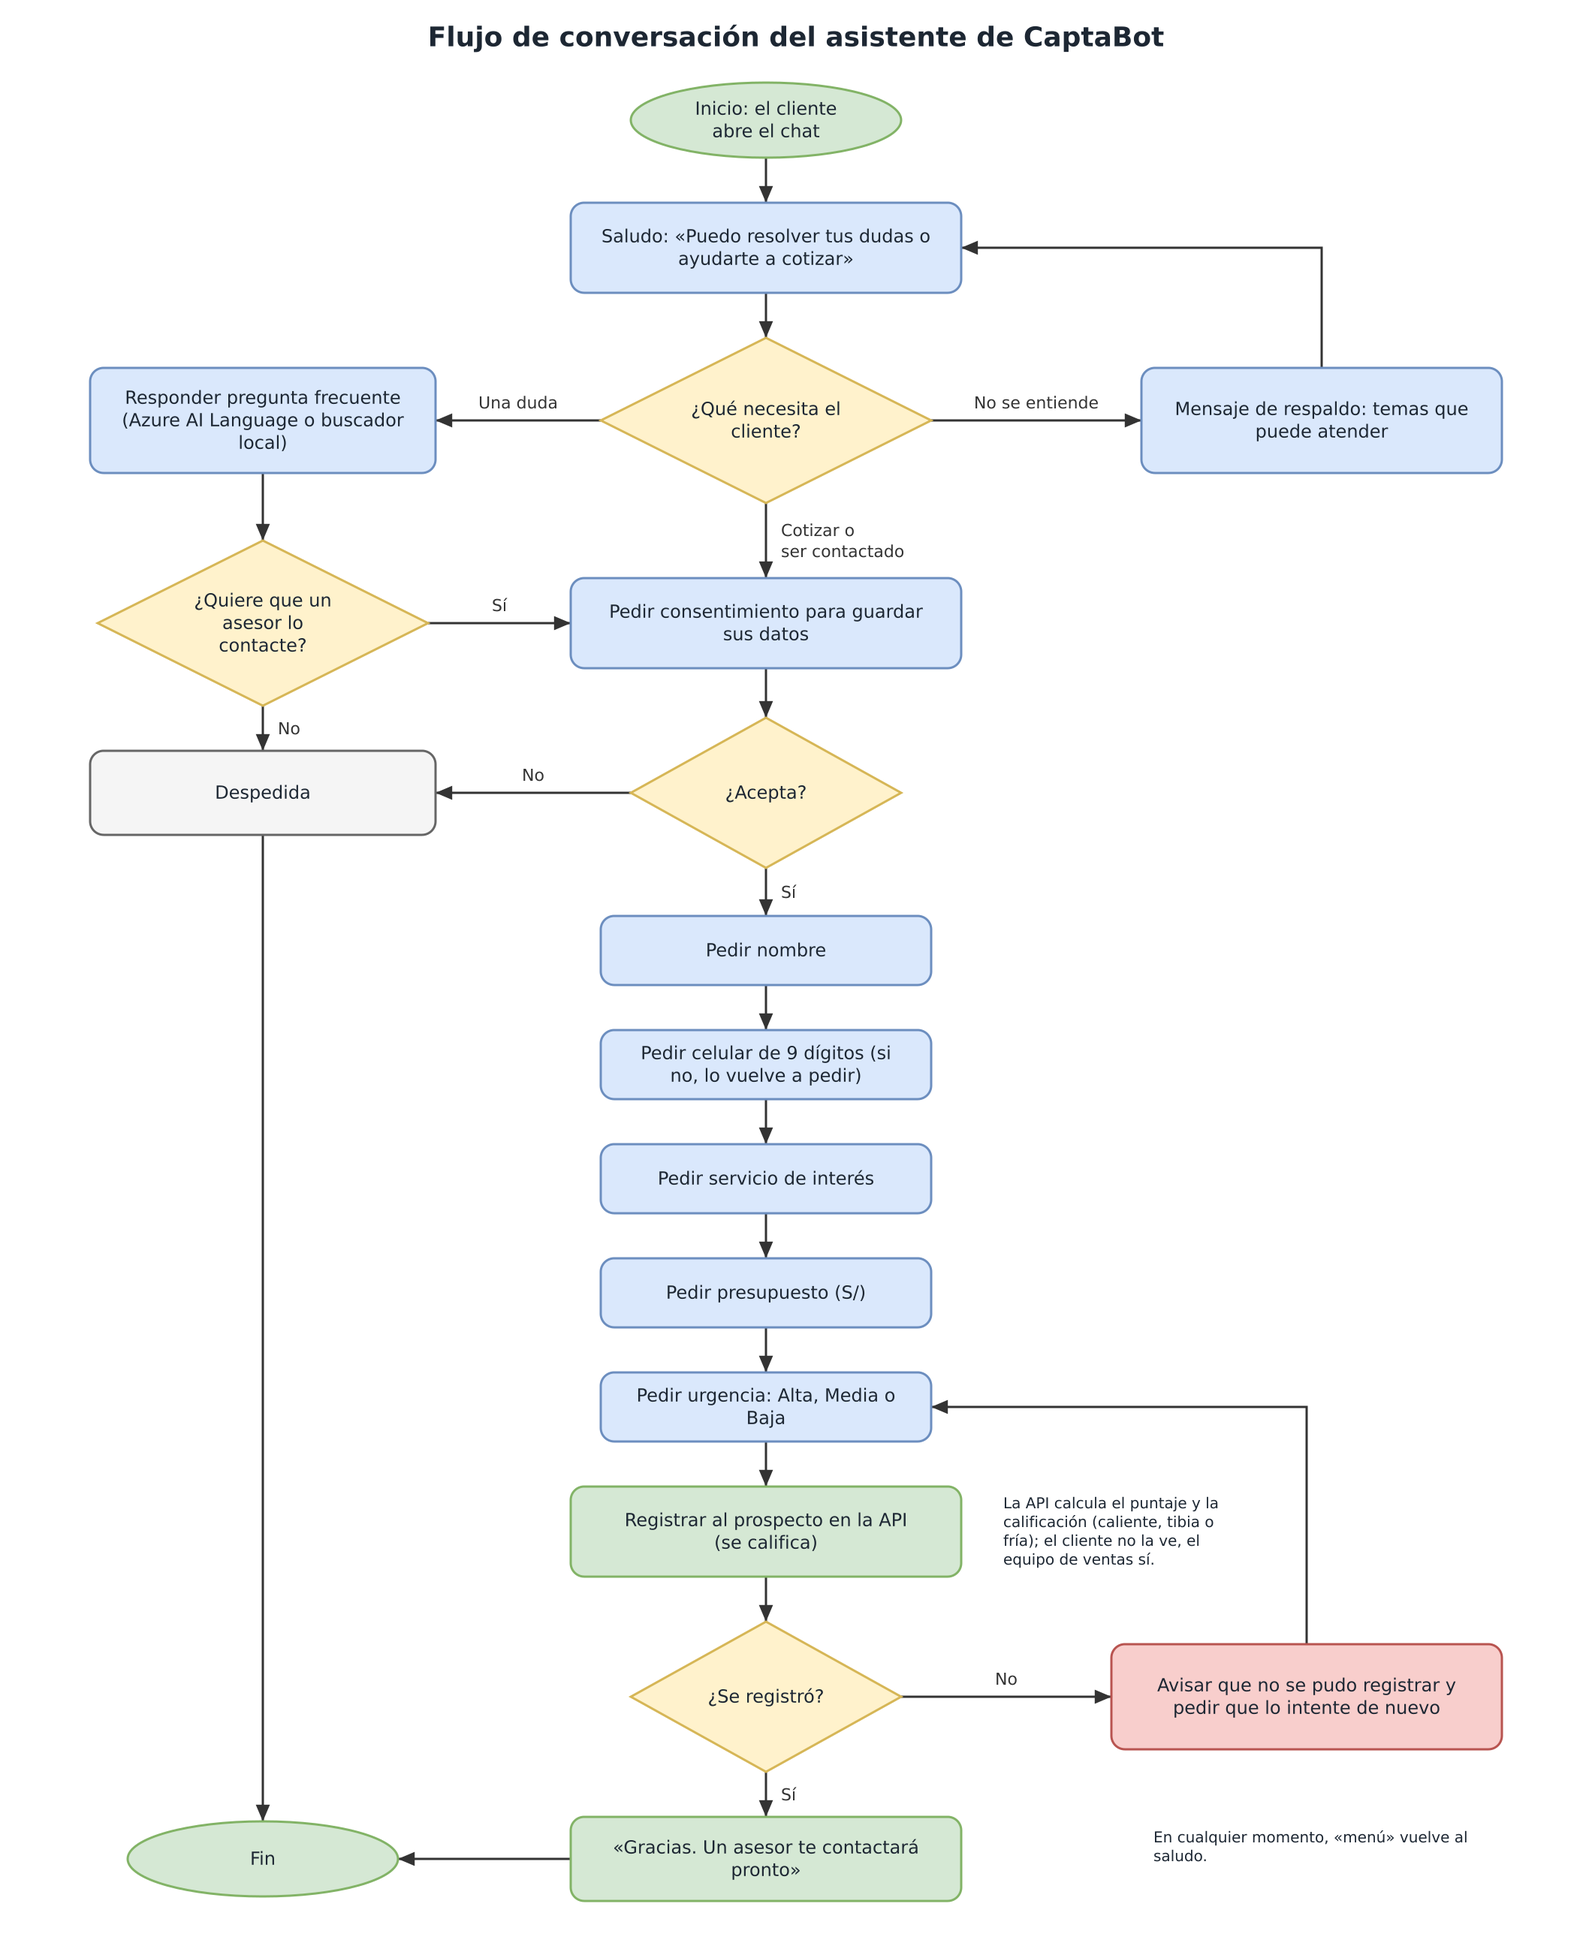
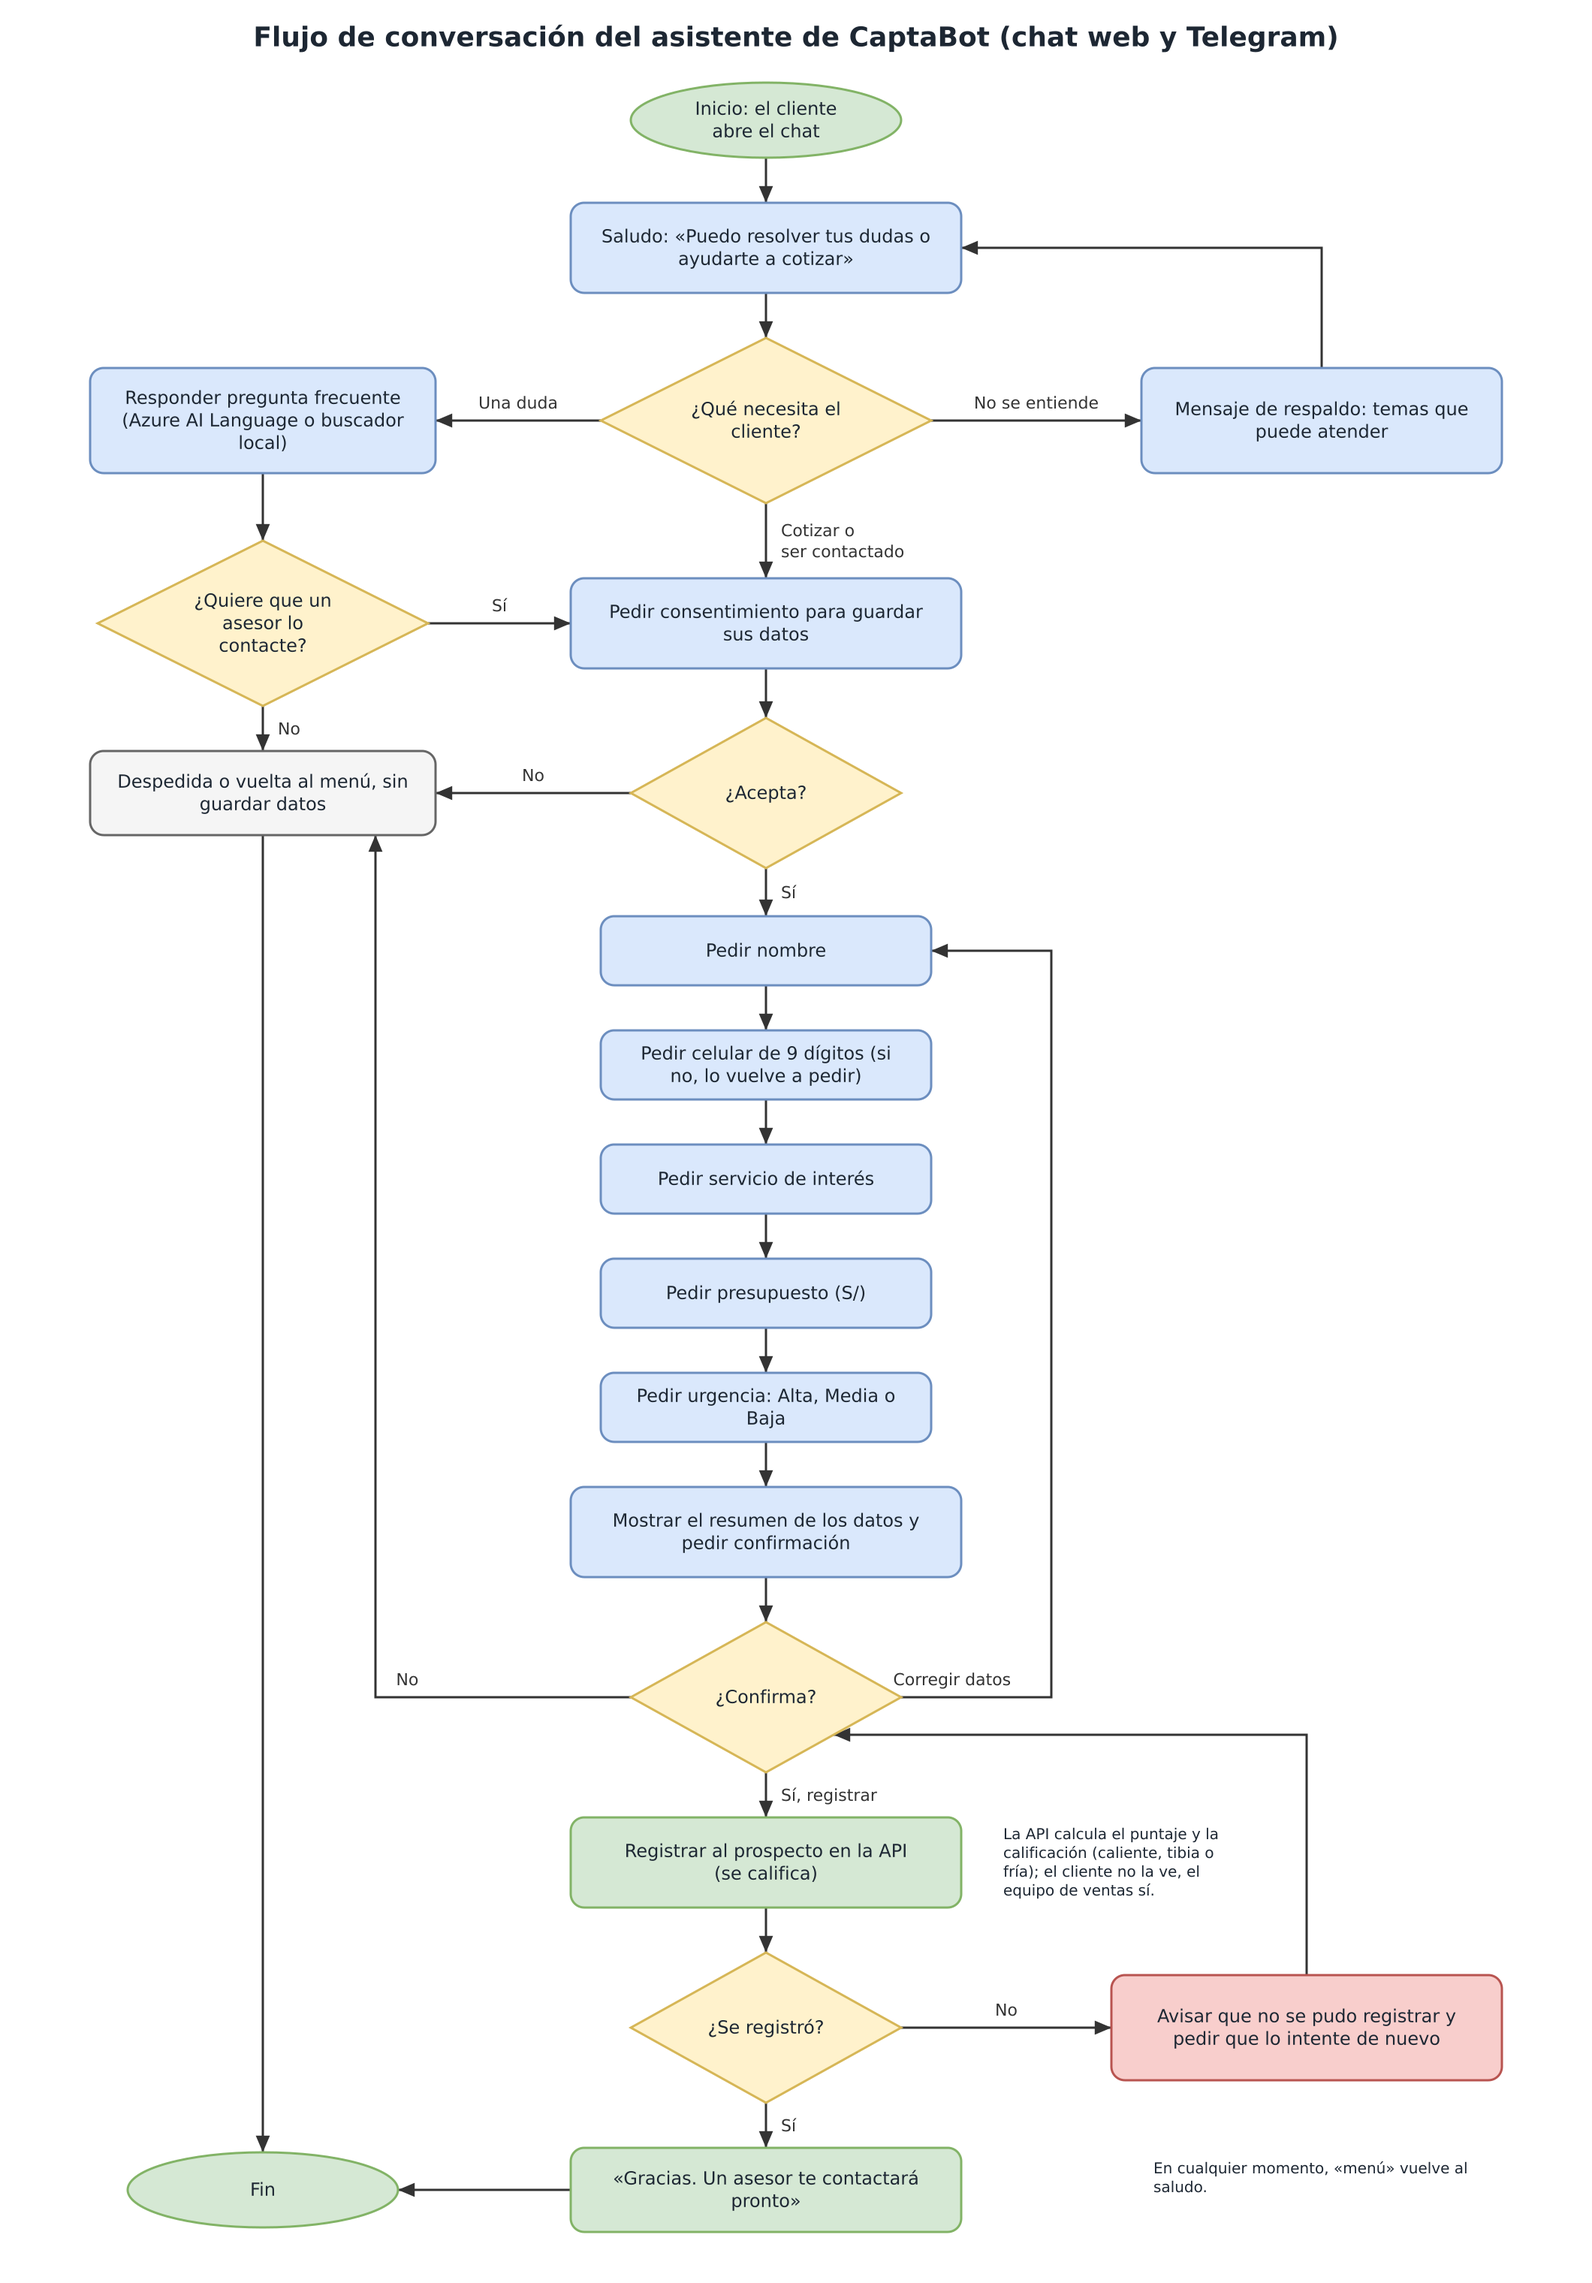
SCRUM-15 El chat muestra un resumen y pide confirmación antes de registrar al prospecto
Cumple el criterio de HU04: «Muestra un resumen y pide confirmación antes de enviar».
«Corregir datos» vuelve a pedir el nombre y «No» vuelve al menú sin guardar nada.
Actualiza las pruebas JUnit, el CI, Postman, el plan de pruebas y el flujo del asistente.

Claude-Session: https://claude.ai/code/session_01H7kSdfkHfV2igCU9K55eDj

diff --git a/api/src/main/java/pe/captabot/api/chat/ConversacionService.java b/api/src/main/java/pe/captabot/api/chat/ConversacionService.java
@@ -12,6 +12,7 @@ import java.time.Duration;
 import java.time.Instant;
 import java.util.ArrayList;
 import java.util.List;
+import java.util.Locale;
 import java.util.Map;
 import java.util.Optional;
 import java.util.Set;
@@ -37,6 +38,7 @@ public class ConversacionService {
     static final List<String> SI_NO = List.of("Sí", "No");
     static final List<String> SERVICIOS = List.of("Diseño web", "Marketing digital", "Soporte técnico", "Otro");
     static final List<String> URGENCIAS = List.of("Alta: esta semana", "Media: este mes", "Baja: solo estoy averiguando");
+    static final List<String> CONFIRMAR = List.of("Sí, registrar", "Corregir datos");
 
     static final String SALUDO = "¡Hola! Soy CaptaBot, el asistente virtual. Puedo resolver tus dudas sobre horarios, "
             + "ubicación, servicios, precios, formas de pago y tiempos de entrega, o ayudarte a pedir una cotización.";
@@ -95,6 +97,7 @@ public class ConversacionService {
             case SERVICIO -> enServicio(c, entrada);
             case PRESUPUESTO -> enPresupuesto(c, entrada);
             case URGENCIA -> enUrgencia(c, entrada);
+            case CONFIRMACION -> enConfirmacion(c, entrada);
         };
     }
 
@@ -208,13 +211,34 @@ public class ConversacionService {
         if (urgencia == null) {
             return responder(c, List.of("Elige una opción: Alta, Media o Baja."), URGENCIAS);
         }
+        c.urgencia = urgencia;
+        c.estado = EstadoConversacion.CONFIRMACION;
+        return responder(c, List.of(resumen(c)), CONFIRMAR);
+    }
+
+    /** HU04: antes de registrar, el cliente revisa sus datos y confirma o los corrige. */
+    private RespuestaChat enConfirmacion(Conversacion c, String entrada) {
+        if (Textos.normalizar(entrada).contains("correg")) {
+            c.reiniciarDatos();
+            c.estado = EstadoConversacion.NOMBRE;
+            return responder(c, List.of("De acuerdo, corrijamos tus datos. ¿Cuál es tu nombre?"), List.of());
+        }
+        Boolean confirma = Textos.siONo(entrada);
+        if (confirma == null) {
+            return responder(c, List.of("Responde «Sí, registrar» o «Corregir datos», por favor."), CONFIRMAR);
+        }
+        if (!confirma) {
+            c.estado = EstadoConversacion.MENU;
+            c.reiniciarDatos();
+            return responder(c, List.of("Entendido, no registré tus datos. ¿Puedo ayudarte con algo más?"), MENU);
+        }
         try {
-            prospectos.registrar(new ProspectoRequest(c.nombre, c.telefono, c.servicio, c.presupuesto, urgencia.name()),
-                    c.canal);
+            prospectos.registrar(new ProspectoRequest(c.nombre, c.telefono, c.servicio, c.presupuesto,
+                    c.urgencia.name()), c.canal);
         } catch (RuntimeException ex) {
             log.error("No se pudo registrar el prospecto del chat", ex);
             return responder(c, List.of("No pudimos registrar tus datos en este momento. Inténtalo de nuevo en unos "
-                    + "minutos."), URGENCIAS);
+                    + "minutos."), CONFIRMAR);
         }
         String nombre = Textos.primerNombre(c.nombre);
         c.estado = EstadoConversacion.MENU;
@@ -222,6 +246,21 @@ public class ConversacionService {
         return new RespuestaChat(c.id, List.of("Gracias, " + nombre
                 + ". Registramos tus datos y un asesor te contactará pronto.", "¿Puedo ayudarte con algo más?"),
                 MENU, true, false);
+    }
+
+    static String resumen(Conversacion c) {
+        String urgencia = switch (c.urgencia) {
+            case ALTA -> "Alta (esta semana)";
+            case MEDIA -> "Media (este mes)";
+            case BAJA -> "Baja (solo averiguando)";
+        };
+        return "Revisa tus datos:\n"
+                + "• Nombre: " + c.nombre + "\n"
+                + "• Celular: " + c.telefono + "\n"
+                + "• Servicio: " + c.servicio + "\n"
+                + "• Presupuesto: " + String.format(Locale.US, "S/ %,.2f", c.presupuesto) + "\n"
+                + "• Urgencia: " + urgencia + "\n"
+                + "¿Los registro?";
     }
 
     static Urgencia leerUrgencia(String entrada) {
@@ -252,6 +291,7 @@ public class ConversacionService {
             case CONSENTIMIENTO -> List.of("Sí, acepto", "No");
             case SERVICIO -> SERVICIOS;
             case URGENCIA -> URGENCIAS;
+            case CONFIRMACION -> CONFIRMAR;
             default -> List.of();
         };
     }

diff --git a/api/src/test/java/pe/captabot/api/chat/ConversacionServiceTest.java b/api/src/test/java/pe/captabot/api/chat/ConversacionServiceTest.java
@@ -47,7 +47,13 @@ class ConversacionServiceTest {
         assertThat(chat.procesar(s, "987 654 321").opciones()).contains("Diseño web");
         chat.procesar(s, "Diseño web");
         assertThat(chat.procesar(s, "S/ 6,000").opciones()).contains("Alta: esta semana");
-        RespuestaChat fin = chat.procesar(s, "Alta: esta semana");
+        RespuestaChat resumen = chat.procesar(s, "Alta: esta semana");
+        assertThat(resumen.mensajes().get(0)).contains("Revisa tus datos", "maría quispe", "987654321",
+                "Diseño web", "S/ 6,000.00", "Alta (esta semana)");
+        assertThat(resumen.opciones()).isEqualTo(ConversacionService.CONFIRMAR);
+        assertThat(resumen.registrado()).isFalse();
+        verify(prospectos, never()).registrar(any(), any());
+        RespuestaChat fin = chat.procesar(s, "Sí, registrar");
 
         assertThat(fin.registrado()).isTrue();
         assertThat(fin.mensajes().get(0)).isEqualTo("Gracias, María. Registramos tus datos y un asesor te contactará pronto.");
@@ -58,6 +64,38 @@ class ConversacionServiceTest {
         assertThat(datos.getValue().servicioInteres()).isEqualTo("Diseño web");
         assertThat(datos.getValue().presupuesto()).isEqualByComparingTo(new BigDecimal("6000"));
         assertThat(datos.getValue().urgencia()).isEqualTo("ALTA");
+    }
+
+    @Test
+    void corregirDatosVuelveAPedirElNombreSinRegistrar() {
+        String s = llegarAlResumen();
+
+        RespuestaChat r = chat.procesar(s, "Corregir datos");
+
+        assertThat(r.mensajes().get(0)).contains("¿Cuál es tu nombre?");
+        verify(prospectos, never()).registrar(any(), any());
+        assertThat(chat.procesar(s, "Luis Rojas").mensajes().get(0)).startsWith("Gracias, Luis.");
+    }
+
+    @Test
+    void siNoConfirmaNoRegistraYVuelveAlMenu() {
+        String s = llegarAlResumen();
+
+        RespuestaChat r = chat.procesar(s, "No");
+
+        assertThat(r.mensajes().get(0)).contains("no registré tus datos");
+        assertThat(r.opciones()).isEqualTo(ConversacionService.MENU);
+        verify(prospectos, never()).registrar(any(), any());
+    }
+
+    @Test
+    void enElResumenInsisteSiLaRespuestaNoEsClara() {
+        String s = llegarAlResumen();
+
+        RespuestaChat r = chat.procesar(s, "mmm");
+
+        assertThat(r.opciones()).isEqualTo(ConversacionService.CONFIRMAR);
+        verify(prospectos, never()).registrar(any(), any());
     }
 
     @Test
@@ -164,6 +202,15 @@ class ConversacionServiceTest {
         chat.procesar(s, "Quiero cotizar");
         chat.procesar(s, "Sí");
         chat.procesar(s, "Ana");
+        return s;
+    }
+
+    private String llegarAlResumen() {
+        String s = llegarAlCelular();
+        chat.procesar(s, "912345678");
+        chat.procesar(s, "Soporte técnico");
+        chat.procesar(s, "800");
+        chat.procesar(s, "Baja: solo estoy averiguando");
         return s;
     }
 }

diff --git a/api/src/test/java/pe/captabot/api/telegram/TelegramBotTest.java b/api/src/test/java/pe/captabot/api/telegram/TelegramBotTest.java
@@ -88,6 +88,9 @@ class TelegramBotTest {
         bot.atender(texto(77, "Diseño web"));
         bot.atender(texto(77, "3000"));
         bot.atender(texto(77, "Alta: esta semana"));
+        assertThat(telegram.ultimo().texto()).contains("Revisa tus datos");
+        assertThat(telegram.ultimo().teclado().toString()).contains("Sí, registrar", "Corregir datos");
+        bot.atender(texto(77, "Sí, registrar"));
 
         ArgumentCaptor<ProspectoRequest> datos = ArgumentCaptor.forClass(ProspectoRequest.class);
         verify(prospectos).registrar(datos.capture(), eq(ConversacionService.CANAL_TELEGRAM));

diff --git a/api/src/main/java/pe/captabot/api/chat/Conversacion.java b/api/src/main/java/pe/captabot/api/chat/Conversacion.java
@@ -1,5 +1,7 @@
 package pe.captabot.api.chat;
 
+import pe.captabot.api.modelo.Urgencia;
+
 import java.math.BigDecimal;
 import java.time.Instant;
 
@@ -14,6 +16,7 @@ class Conversacion {
     String telefono;
     String servicio;
     BigDecimal presupuesto;
+    Urgencia urgencia;
     Instant ultimaActividad = Instant.now();
 
     Conversacion(String id, String canal) {
@@ -26,5 +29,6 @@ class Conversacion {
         telefono = null;
         servicio = null;
         presupuesto = null;
+        urgencia = null;
     }
 }

diff --git a/api/src/main/java/pe/captabot/api/chat/EstadoConversacion.java b/api/src/main/java/pe/captabot/api/chat/EstadoConversacion.java
@@ -2,5 +2,5 @@ package pe.captabot.api.chat;
 
 /** Paso de la conversación en el que está el cliente (ver docs/diagramas/flujo-asistente.png). */
 enum EstadoConversacion {
-    MENU, PREGUNTA_ASESOR, CONSENTIMIENTO, NOMBRE, CELULAR, SERVICIO, PRESUPUESTO, URGENCIA
+    MENU, PREGUNTA_ASESOR, CONSENTIMIENTO, NOMBRE, CELULAR, SERVICIO, PRESUPUESTO, URGENCIA, CONFIRMACION
 }

diff --git a/docs/entregables/plan-de-pruebas.md b/docs/entregables/plan-de-pruebas.md
@@ -24,10 +24,10 @@ Comprobar que CaptaBot cumple los criterios de aceptación de las 12 historias d
 | Unitarias de la API | JUnit 5, Mockito, AssertJ, MockMvc | Calificación, usuarios, seguimiento, reportes y controladores | En cada push (GitHub Actions) y con `mvn test` |
 | Unitarias del panel | xUnit, WebApplicationFactory | Cliente de la API, controladores, exportación a Excel y páginas protegidas | En cada push y con `dotnet test` |
 | Base de datos | psql sobre PostgreSQL 16 limpio | Que los tres scripts se ejecuten sin errores y carguen 10 prospectos | En cada push |
-| Integración de la API | Postman y newman | 41 solicitudes con 55 verificaciones sobre la API real y la base de datos | En cada push y desde Postman |
+| Integración de la API | Postman y newman | 42 solicitudes con 56 verificaciones sobre la API real y la base de datos | En cada push y desde Postman |
 | Punta a punta | curl en GitHub Actions | BD + API + panel juntos: conversación del chat, inicio de sesión real, lista, reportes, Excel y usuarios | En cada push |
 | Contenedores | Docker Compose | Que el sistema completo levante con un solo comando | Cuando cambian Docker o las dependencias |
-| Asistente | JUnit, curl en el CI y navegador | Conversaciones de los casos A01 a A08 | En cada push; A07 y A08 a mano |
+| Asistente | JUnit, curl en el CI y navegador | Conversaciones de los casos A01 a A10 | En cada push; A07 y A08 a mano |
 | Aceptación | Demo con el Product Owner | Criterios de aceptación de cada historia | Al cierre de cada sprint |
 
 ## 4. Entorno de pruebas
@@ -51,7 +51,8 @@ Estado: **Auto** = automatizado y en verde en el CI · **Manual** = se prueba a 
 | HU03 | P02 | S/ 2500 y urgencia media | 65 puntos, TIBIO | Auto |
 | HU03 | P03 | S/ 100 y urgencia baja | 15 puntos, FRIO | Auto |
 | HU03 | P04 | Montos en el borde de cada tramo (S/ 4999.99, 5000, 499.99, 500) y 70 puntos exactos | Se aplica el tramo correcto; 70 puntos ya es CALIENTE | Auto |
-| HU04 | A04 | Completar la conversación de captación | Pide consentimiento, nombre, celular, servicio, presupuesto y urgencia, y registra al prospecto | Auto |
+| HU04 | A04 | Completar la conversación de captación | Pide consentimiento, nombre, celular, servicio, presupuesto y urgencia; muestra un resumen, pide confirmación y recién entonces registra al prospecto | Auto |
+| HU04 | A10 | En el resumen, elegir «Corregir datos» o responder «No» | Con «Corregir datos» vuelve a pedir el nombre; con «No» vuelve al menú; en ambos casos no guarda nada | Auto |
 | HU04 | A05 | Rechazar el consentimiento | Se despide sin guardar datos | Auto |
 | HU05 | P05 | Registro válido desde la extensión | 201, mensaje con el primer nombre, guardado en etapa NUEVO | Auto |
 | HU05 | P06 | Teléfono con menos de 9 dígitos | 400 con el detalle del campo | Auto |
@@ -106,11 +107,11 @@ esperado, resultado obtenido y captura. La corrección se sube en un commit con 
 
 | Prueba | Resultado |
 |---|---|
-| JUnit (API) | 112 pruebas, 0 fallos |
+| JUnit (API) | 115 pruebas, 0 fallos |
 | xUnit (panel) | 53 pruebas, 0 fallos |
-| Postman / newman | 41 solicitudes, 55 verificaciones, 0 fallos |
+| Postman / newman | 42 solicitudes, 56 verificaciones, 0 fallos |
 | Punta a punta (BD + API + panel) | Correcta |
 | Docker Compose | Correcto |
-| Asistente (A01 a A06, A08) | Automatizados con JUnit y en el CI |
+| Asistente (A01 a A06, A08 a A10) | Automatizados con JUnit y en el CI |
 | A07 con Azure AI Language | Pendiente: crear el recurso gratuito en Azure |
 | A10 con el bot real de Telegram | Pendiente: crear el bot con @BotFather |

diff --git a/pruebas/postman/README.md b/pruebas/postman/README.md
@@ -1,6 +1,6 @@
 # Prueba de integración con Postman (SCRUM-47)
 
-La colección `CaptaBot.postman_collection.json` tiene 41 solicitudes con sus pruebas
+La colección `CaptaBot.postman_collection.json` tiene 42 solicitudes con sus pruebas
 automáticas, ordenadas en cinco carpetas que se ejecutan en orden:
 
 | Carpeta | Historias | Qué comprueba |
